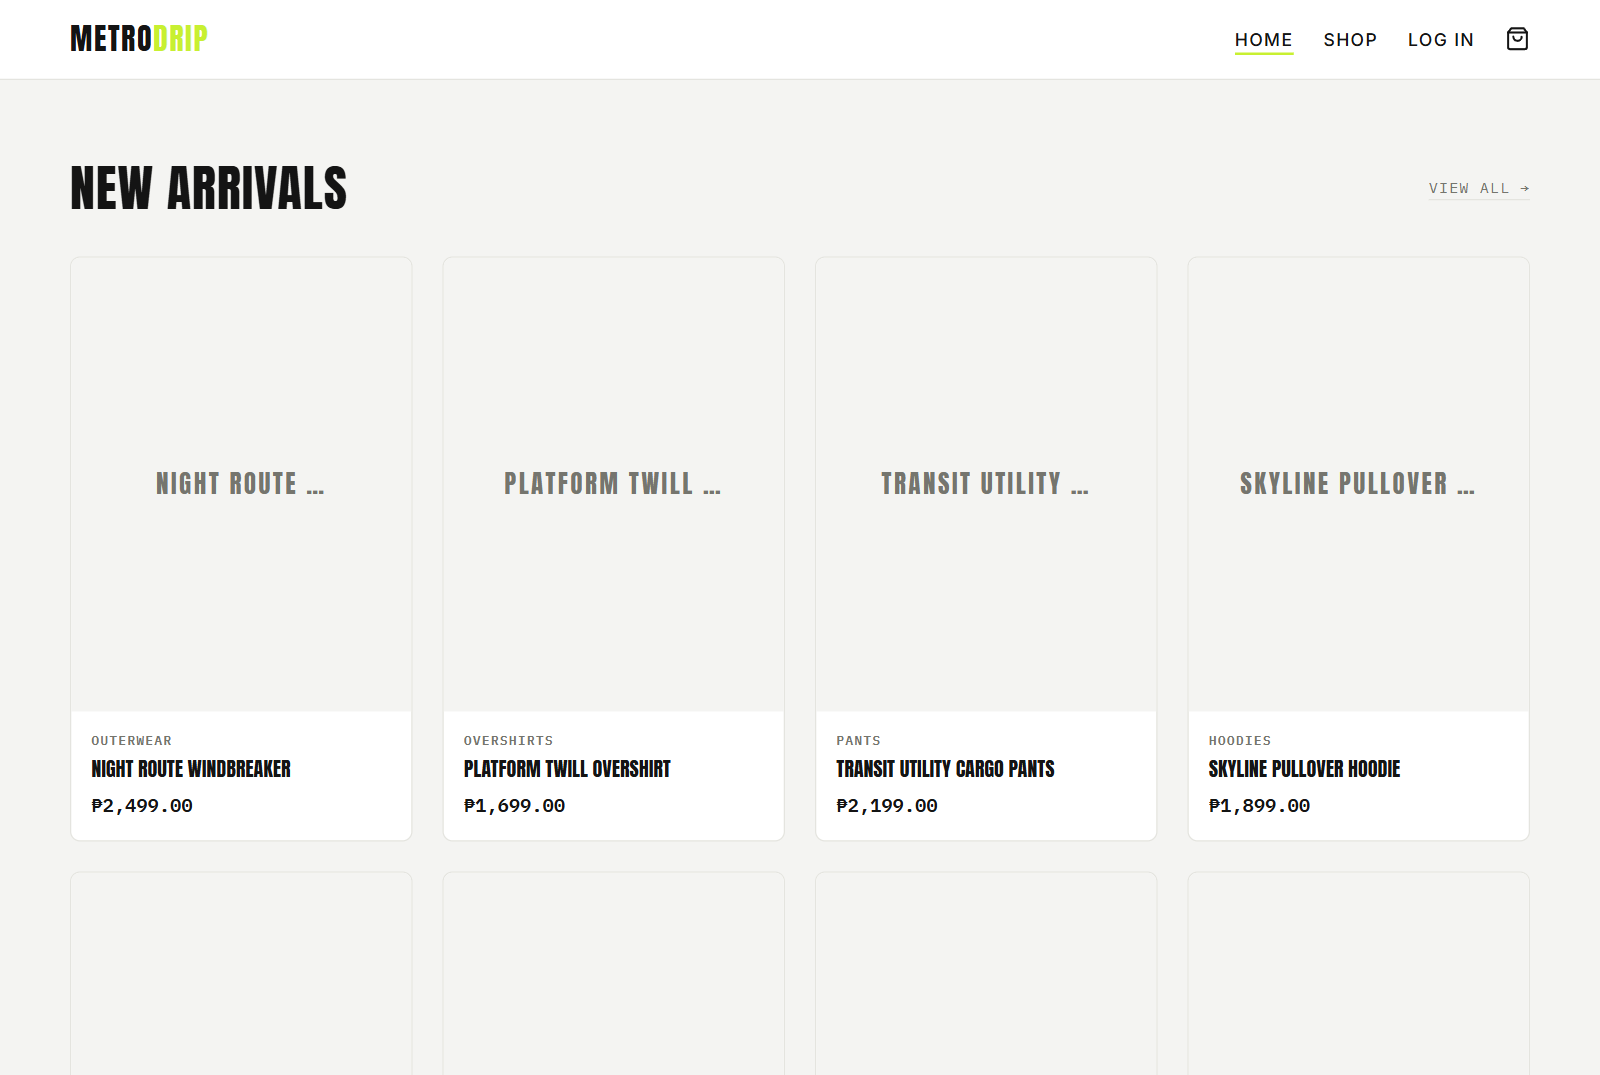
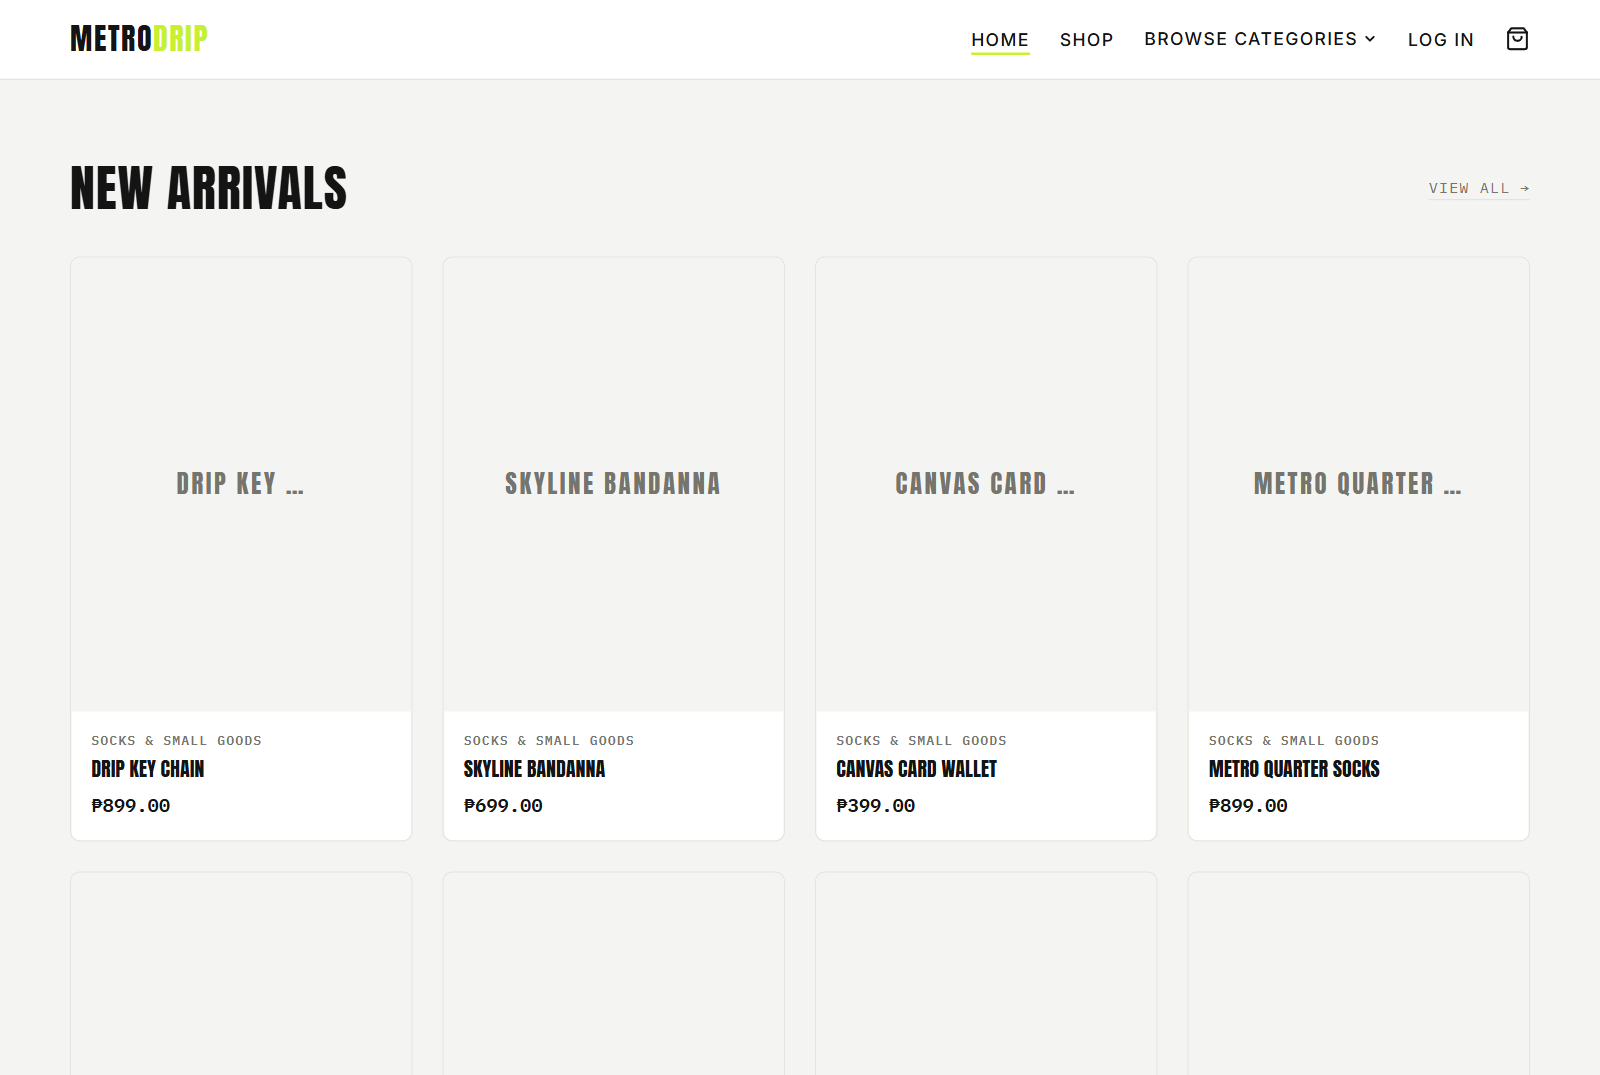
feat: Update guide images and documentation for category navigation and admin branding

diff --git a/index.html b/index.html
@@ -573,6 +573,10 @@
         <li>Alpine.js</li>
         <li>Docker</li>
       </ul>
+      <p class="tagline" style="font-size:0.875rem;">
+        Last verified against the storefront on 28 July 2026 — including the two-level category
+        navigation and the branded admin.
+      </p>
     </div>
   </header>
 
@@ -1020,6 +1024,50 @@ uv pip install --python .venv/bin/python -r requirements.txt</code></pre></div>
           what should happen. Verify with the check in <a href="#verify">Step 9</a>.
         </p>
       </div>
+
+      <h3>Fill the catalogue for category browsing</h3>
+
+      <p>
+        <code>seed_demo</code> gives you five products — enough to prove the app runs, but not enough to
+        exercise the category menu or pagination. A second command adds bulk placeholder stock:
+      </p>
+
+      <div class="only-win">
+        <div class="code"><pre><code><span class="c"># See the plan first — this writes nothing.</span>
+.venv/Scripts/python manage.py seed_mock_catalog --dry-run
+
+<span class="c"># Create 100 placeholders, spread evenly across every subcategory.</span>
+.venv/Scripts/python manage.py seed_mock_catalog</code></pre></div>
+      </div>
+      <div class="only-mac">
+        <div class="code"><pre><code><span class="c"># See the plan first — this writes nothing.</span>
+.venv/bin/python manage.py seed_mock_catalog --dry-run
+
+<span class="c"># Create 100 placeholders, spread evenly across every subcategory.</span>
+.venv/bin/python manage.py seed_mock_catalog</code></pre></div>
+      </div>
+      <div class="only-linux">
+        <div class="code"><pre><code><span class="c"># See the plan first — this writes nothing.</span>
+.venv/bin/python manage.py seed_mock_catalog --dry-run
+
+<span class="c"># Create 100 placeholders, spread evenly across every subcategory.</span>
+.venv/bin/python manage.py seed_mock_catalog</code></pre></div>
+      </div>
+
+      <div class="tablewrap">
+        <table>
+          <thead>
+            <tr><th>Behaviour</th><th>What it means for you</th></tr>
+          </thead>
+          <tbody>
+            <tr><td><code>--count</code></td><td>How many <em>placeholders</em> to keep, not the total catalogue. Defaults to 100, so a database with 12 real products ends up with 112.</td></tr>
+            <tr><td>Distribution</td><td>Spread evenly across every subcategory, so no category is left empty.</td></tr>
+            <tr><td>Safe to rerun</td><td>Names are derived from the category and a sequence number, so a second run finds everything already there and writes nothing.</td></tr>
+            <tr><td>Your stock is safe</td><td>Existing quantities, reservations, and thresholds are never reset.</td></tr>
+            <tr><td>Spotting them</td><td>Placeholders are flagged <code>is_mock</code> and filterable in the admin. Otherwise they behave like any other product.</td></tr>
+          </tbody>
+        </table>
+      </div>
     </section>
 
     <!-- ============================== 7. RUN ============================== -->
@@ -1057,13 +1105,41 @@ uv pip install --python .venv/bin/python -r requirements.txt</code></pre></div>
 
       <figure>
         <img src="docs/images/03-storefront-homepage.png"
-             alt="MetroDrip storefront homepage showing the navigation bar and the New Arrivals product grid, with items including Night Route Windbreaker at 2,499 pesos and Platform Twill Overshirt at 1,699 pesos."
+             alt="MetroDrip storefront homepage showing the navigation bar with Home, Shop and Browse Categories, above the New Arrivals product grid with items including Drip Key Chain at 899 pesos and Canvas Card Wallet at 399 pesos."
              loading="lazy" width="1600" height="1075">
         <figcaption>
           The New Arrivals grid on the homepage, served from your own machine. Product cards show a text
-          placeholder because the demo seed ships pricing and stock but no photography.
+          placeholder because the seed ships pricing and stock but no photography.
         </figcaption>
       </figure>
+
+      <h3>Browse by category</h3>
+
+      <p>
+        <strong>Browse Categories</strong> in the navigation bar opens a menu of every main category and its
+        <em>Men</em> and <em>Women</em> subcategories, with a live product count beside each one.
+      </p>
+
+      <figure>
+        <img src="docs/images/04-category-menu.png"
+             alt="The Browse Categories dropdown open on the homepage, showing a grid of main categories such as Accessories, Bottoms, Hoodies and Outerwear. Each has an All link plus Men and Women subcategories with product counts."
+             loading="lazy" width="1600" height="1075">
+        <figcaption>
+          The category menu. It is a plain HTML disclosure, so it opens with a click <em>or</em> the keyboard
+          (Tab to it, then Enter) and closes with Escape. Categories added after the last seed run have no
+          Men/Women split until you run <code>seed_mock_catalog</code> again.
+        </figcaption>
+      </figure>
+
+      <div class="note note--tip">
+        <span class="note__label">How the two levels differ</span>
+        <p>
+          Clicking a <strong>main category</strong> shows everything in that branch — its own products plus
+          every subcategory's. Clicking <strong>Men</strong> or <strong>Women</strong> narrows to just that
+          subcategory. Try <code>/shop/?category=hoodies</code> against
+          <code>/shop/?category=hoodies-men</code> and compare the counts.
+        </p>
+      </div>
     </section>
 
     <!-- ============================== 8. ADMIN ============================== -->
@@ -1118,12 +1194,14 @@ uv pip install --python .venv/bin/python -r requirements.txt</code></pre></div>
       </div>
 
       <figure>
-        <img src="docs/images/04-admin-dashboard.png"
-             alt="Django admin site administration page after logging in, listing the Accounts, Authentication and Authorization, Catalog, CMS, Flat pages, and Inventory sections."
+        <img src="docs/images/06-admin-dashboard.png"
+             alt="The MetroDrip Administration dashboard after logging in, listing the Accounts, Authentication and Authorization, Catalog, CMS, Flat pages, and Inventory sections."
              loading="lazy" width="1600" height="1075">
         <figcaption>
-          The admin dashboard after a successful login. Every app in the system appears here — Catalog for
-          products, Inventory for stock records and movements, and Orders further down the page.
+          The admin dashboard after a successful login. Every app appears here — Catalog for products and
+          categories, Inventory for stock records and movements, and Orders further down the page. The login
+          screen is headed <em>Administrator Login</em>; everything past it is branded
+          <em>MetroDrip Administration</em>.
         </figcaption>
       </figure>
     </section>
@@ -1144,7 +1222,9 @@ uv pip install --python .venv/bin/python -r requirements.txt</code></pre></div>
           </thead>
           <tbody>
             <tr><td>Homepage</td><td><code>/</code></td><td>Banner and a grid of products</td></tr>
-            <tr><td>Shop</td><td><code>/shop/</code></td><td>Full catalogue with filters</td></tr>
+            <tr><td>Shop</td><td><code>/shop/</code></td><td>Full catalogue with the category tree and filters</td></tr>
+            <tr><td>Main category</td><td><code>/shop/?category=hoodies</code></td><td>Hoodies plus both its subcategories</td></tr>
+            <tr><td>Subcategory</td><td><code>/shop/?category=hoodies-men</code></td><td>Only Hoodies → Men</td></tr>
             <tr><td>Product detail</td><td><code>/shop/&lt;product-slug&gt;/</code></td><td>Sizes, colours, add-to-cart</td></tr>
             <tr><td>Cart</td><td><code>/cart/</code></td><td>Empty cart, or your items</td></tr>
             <tr><td>Contact</td><td><code>/contact/</code></td><td>Contact form</td></tr>
@@ -1179,9 +1259,22 @@ uv pip install --python .venv/bin/python -r requirements.txt</code></pre></div>
 
       <p>Any count above zero means the catalogue is populated and the storefront has something to show.</p>
 
+      <figure>
+        <img src="docs/images/05-shop-category-tree.png"
+             alt="The shop page filtered to Hoodies, Men. The sidebar shows main categories as chips with indented Men and Women chips beneath, the Men chip highlighted, and the results heading reads 6 products."
+             loading="lazy" width="1600" height="1250">
+        <figcaption>
+          The shop sidebar mirrors the same two levels. The selected chip is highlighted, and the result count
+          matches the number beside it. Changing category keeps your size, colour, price, search, and sort
+          settings — and paging through results keeps them too.
+        </figcaption>
+      </figure>
+
       <h3>Try the shopping flow</h3>
       <ol class="steps">
-        <li>Open <code>/shop/</code> and click any product.</li>
+        <li>Open <strong>Browse Categories</strong> and pick a subcategory, such as Hoodies → Men.</li>
+        <li>Confirm the product count matches the number shown beside that subcategory.</li>
+        <li>Click any product.</li>
         <li>Choose a size and colour, then add it to your cart.</li>
         <li>Open <code>/cart/</code> and confirm the item and price are correct.</li>
         <li>Go to checkout and fill in the delivery details.</li>
@@ -1189,19 +1282,19 @@ uv pip install --python .venv/bin/python -r requirements.txt</code></pre></div>
       </ol>
 
       <figure>
-        <img src="docs/images/05-cart.png"
-             alt="MetroDrip cart page with one line item: Night Route Windbreaker, XS / Carbon Black / oversized, SKU MD-NRJK-XS-CBLK-OVR, quantity 1, 2,499 pesos. The order summary panel shows an estimated total of 2,499 pesos."
+        <img src="docs/images/07-cart.png"
+             alt="MetroDrip cart page with one line item: Hoodies Men Placeholder 06, M / Bone White / oversized, SKU MD-MOCK-HOODIES-M-006, quantity 1, 549 pesos. The order summary panel shows an estimated total of 549 pesos."
              loading="lazy" width="1600" height="1075">
         <figcaption>
-          The cart after adding one variant. Note the SKU <code>MD-NRJK-XS-CBLK-OVR</code> — size, colour,
+          The cart after adding one variant. Note the SKU <code>MD-MOCK-HOODIES-M-006</code> — size, colour,
           and fit each become part of the variant identity, and stock is tracked per variant rather than per
           product.
         </figcaption>
       </figure>
 
       <figure>
-        <img src="docs/images/06-checkout.png"
-             alt="MetroDrip checkout page with a shipping details form on the left and an order summary on the right carrying the Night Route Windbreaker line item and a 2,499 peso total."
+        <img src="docs/images/08-checkout.png"
+             alt="MetroDrip checkout page with a shipping details form on the left and an order summary on the right carrying the Hoodies Men Placeholder 06 line item and a 549 peso total."
              loading="lazy" width="1600" height="1075">
         <figcaption>
           Checkout carries the same line item through to the order summary. Shipping stays unpriced until a
@@ -1387,7 +1480,7 @@ uv pip install --python .venv/bin/python -r requirements.txt</code></pre></div>
       </div>
 
       <figure>
-        <img src="docs/images/07-troubleshooting-flowchart.png"
+        <img src="docs/images/09-troubleshooting-flowchart.png"
              alt="Decision flowchart titled 'The page will not load — what to check'. Four questions in sequence: is the runserver terminal still running, is the database container healthy, does /healthz/ready/ return ok, and is the catalogue empty. Each 'no' branches right to a fix command; answering through to the end suggests a hard refresh."
              loading="lazy" width="1175" height="751">
         <figcaption>
@@ -1449,7 +1542,9 @@ docker compose up -d db --wait
             <tr><td><code>docker compose ps</code></td><td>Show whether the container is running and healthy</td></tr>
             <tr><td><code>docker compose logs db</code></td><td>Read the database logs when something is wrong</td></tr>
             <tr><td><code>manage.py migrate</code></td><td>Create or update database tables</td></tr>
-            <tr><td><code>manage.py seed_demo</code></td><td>Load sample products, stock, and pages</td></tr>
+            <tr><td><code>manage.py seed_demo</code></td><td>Load the five sample products, stock, and pages</td></tr>
+            <tr><td><code>manage.py seed_mock_catalog</code></td><td>Fill every subcategory with placeholder products</td></tr>
+            <tr><td><code>manage.py seed_mock_catalog --dry-run</code></td><td>Preview that plan without writing</td></tr>
             <tr><td><code>manage.py runserver</code></td><td>Start the web server on port 8000</td></tr>
             <tr><td><code>manage.py createsuperuser</code></td><td>Create an admin account</td></tr>
             <tr><td><code>manage.py check</code></td><td>Look for configuration problems</td></tr>
@@ -1470,8 +1565,11 @@ docker compose up -d db --wait
 [ ] docker compose ps shows metrodrip-mysql as healthy
 [ ] manage.py migrate finished without errors
 [ ] manage.py seed_demo finished without errors
+[ ] manage.py seed_mock_catalog finished without errors
 [ ] manage.py check reports no issues
 [ ] http://127.0.0.1:8000/ shows the product grid
+[ ] Browse Categories opens and lists Men / Women per category
+[ ] A subcategory link returns the count shown beside it
 [ ] http://127.0.0.1:8000/healthz/ready/ returns {"status": "ok"}
 [ ] Superuser created and /admin/ login works</code></pre></div>
     </section>

diff --git a/docs/images/README.md b/docs/images/README.md
@@ -1,7 +1,7 @@
 # Guide images
 
 Screenshots and diagrams used by the GitHub Pages setup guide (`/index.html` at
-the repository root). All seven are captured; none are placeholders.
+the repository root). All nine are captured; none are placeholders.
 
 ## Inventory
 
@@ -9,20 +9,34 @@ the repository root). All seven are captured; none are placeholders.
 |---|---|---|---|
 | `01-tools-verified.png` | Rendered terminal | Real output from a Windows dev machine | `git`, `python`, `docker`, and `uv` each answering with a version. |
 | `02-mysql-container-healthy.png` | Rendered terminal | Real output | `docker compose up -d db --wait` finishing at `Healthy`, then `docker compose ps`. |
-| `03-storefront-homepage.png` | Screenshot | Live dev server | The New Arrivals grid with seeded products and prices. |
-| `04-admin-dashboard.png` | Screenshot | Live dev server, real login | Django admin listing Accounts, Catalog, CMS, Flat pages, Inventory. |
-| `05-cart.png` | Screenshot | Live dev server | Cart holding one real variant, SKU `MD-NRJK-XS-CBLK-OVR`. |
-| `06-checkout.png` | Screenshot | Live dev server | Checkout form with the order summary carrying that line item. |
-| `07-troubleshooting-flowchart.png` | Diagram | Hand-authored SVG, rendered to PNG | Four-question decision tree for "the page will not load". |
+| `03-storefront-homepage.png` | Screenshot | Live dev server | The New Arrivals grid, with Browse Categories in the navbar. |
+| `04-category-menu.png` | Screenshot | Live dev server | The category dropdown open: main categories, All links, Men/Women counts. |
+| `05-shop-category-tree.png` | Screenshot | Live dev server | Shop filtered to Hoodies → Men; sidebar tree with the active chip highlighted. |
+| `06-admin-dashboard.png` | Screenshot | Live dev server, real login | MetroDrip Administration dashboard listing every app. |
+| `07-cart.png` | Screenshot | Live dev server | Cart holding one real variant added through the UI. |
+| `08-checkout.png` | Screenshot | Live dev server | Checkout form with the order summary carrying that line item. |
+| `09-troubleshooting-flowchart.png` | Diagram | Hand-authored SVG, rendered to PNG | Four-question decision tree for "the page will not load". |
 
 The application screenshots were captured by driving the running dev server with
-Playwright — navigating the real storefront, selecting a real variant, adding it
-to the cart, and logging into the admin. Nothing is mocked or composited, so a
-UI change will eventually make them stale. Re-capture rather than retouch.
+Playwright — opening the category menu, filtering the shop, selecting a real
+variant, adding it to the cart, and logging into the admin. Nothing is mocked or
+composited, so a UI change makes them stale. Re-capture rather than retouch.
 
 The two terminal images are the machine's real command output typeset as a
 terminal, so the text stays legible at the guide's column width instead of being
 a blurry crop of a console window.
+
+## Staleness
+
+These have already gone stale once. Adding the category navigation changed the
+navbar in every storefront shot, and rebranding the admin changed its header —
+so `03`–`08` all had to be recaptured. **Any change to the navbar, the admin
+header, or the shop sidebar invalidates most of this directory.** Check the
+screenshots whenever you touch shared chrome.
+
+Numbering follows guide order, not capture order. Inserting a step means
+renumbering the files after it and updating the `src` attributes in
+`index.html`.
 
 ## Conventions
 
@@ -30,10 +44,10 @@ a blurry crop of a console window.
 - **Width**: 1600 px maximum. The guide column is under 1000 px, so anything
   wider is wasted bytes. App screenshots are captured at a 1280 px viewport with
   a 1.25 device scale factor, which lands exactly on 1600.
-- **Size**: keep each file under roughly 400 KB — the current set totals ~390 KB.
-  GitHub Pages has no image pipeline, so whatever is committed is downloaded.
-- **Naming**: `NN-kebab-case-description.png`, numbered in guide order. Keep the
-  numbers stable so existing references stay valid.
+- **Size**: keep each file under roughly 400 KB — the current set totals ~560 KB
+  across nine files. GitHub Pages has no image pipeline, so whatever is
+  committed is what visitors download.
+- **Naming**: `NN-kebab-case-description.png`, numbered in guide order.
 - **Redaction**: blur or crop anything that is not demo data — real names, real
   email addresses, API keys, and the contents of `.env`. The admin shot shows
   `admin@metrodrip.test`, a throwaway local account.
